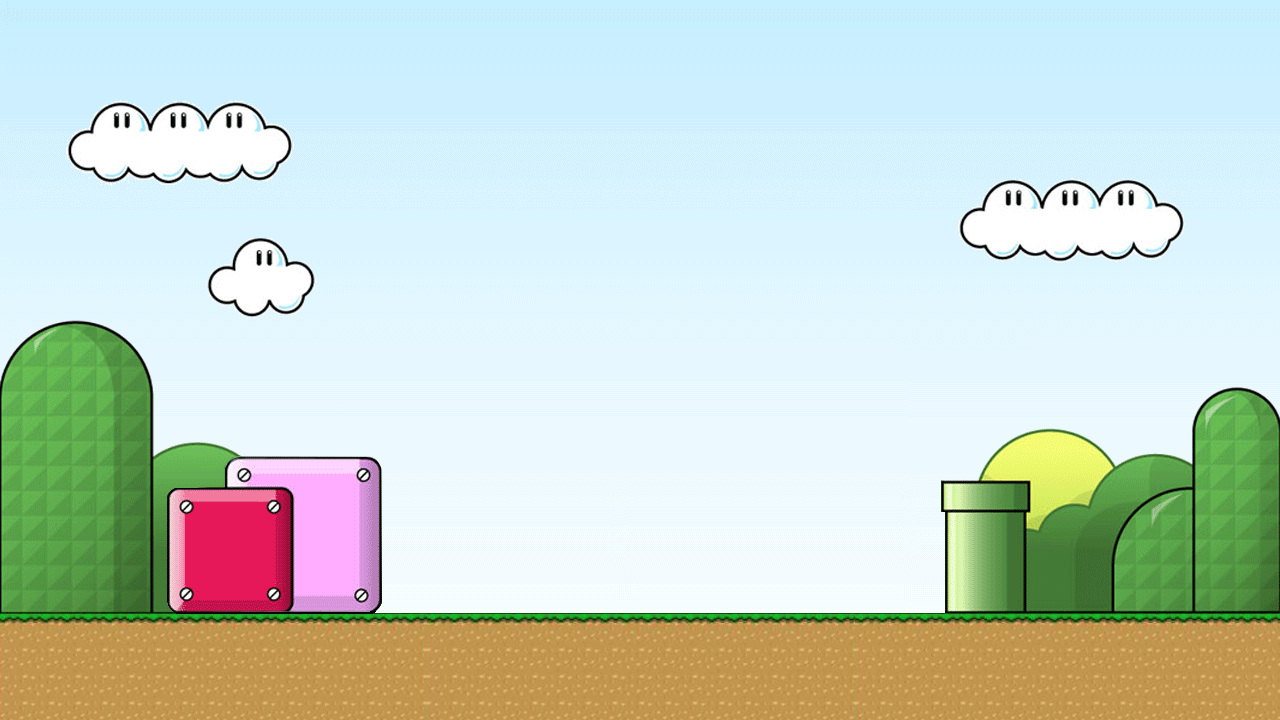
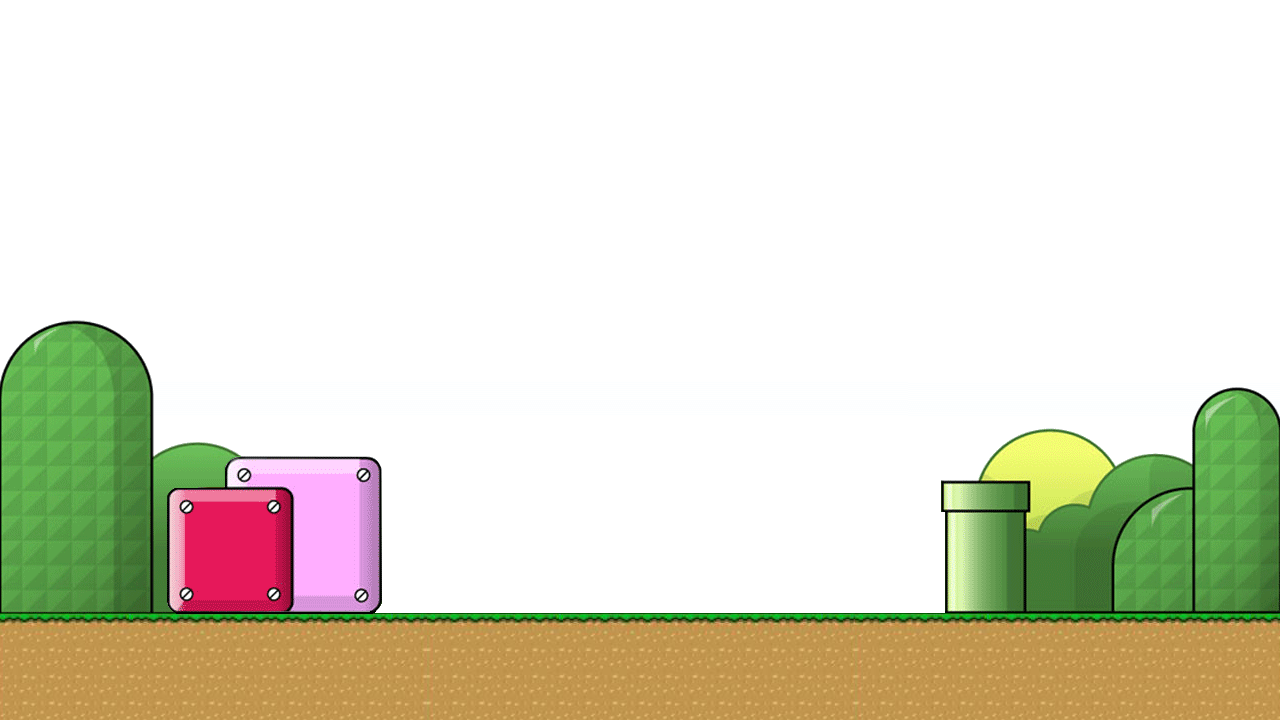
Added Menu Sound Effects

diff --git a/gameMainWindow/title.cpp b/gameMainWindow/title.cpp
@@ -6,7 +6,11 @@ Title::Title(View *view, QWidget *parent) : QGraphicsScene(parent){
     playlist->addMedia(QUrl("qrc:/music/Title.mp3"));
     playlist->setPlaybackMode(QMediaPlaylist::Loop);
 
-    background = new QGraphicsPixmapItem(QPixmap(":/images/title.png"));
+    selectSFX = new QSoundEffect();
+    selectSFX->setSource(QUrl("qrc:/music/Select.wav"));
+
+    background = new QGraphicsPixmapItem(QPixmap(":/images/background.png"));
+    foreground = new QGraphicsPixmapItem(QPixmap(":/images/title.png"));
     cursor = new QGraphicsPixmapItem(QPixmap(":/images/cursor.png"));
     logo = new QGraphicsPixmapItem(QPixmap(":/images/logo.png"));
 
@@ -26,6 +30,7 @@ Title::Title(View *view, QWidget *parent) : QGraphicsScene(parent){
     cursor->setPos((width - start->boundingRect().width()) / 2 - cursor->boundingRect().width(), (height - 275 + start->boundingRect().height() / 4));
     logo->setPos((width - logo->boundingRect().width()) / 2, height / 12);
     addItem(background);
+    addItem(foreground);
     addItem(logo);
     addItem(cursor);
     addItem(start);
@@ -44,6 +49,7 @@ void Title::keyPressEvent(QKeyEvent *event){
             selection--;
             cursor->moveBy(0,-start->boundingRect().height());
         }
+        selectSFX->play();
     }
     if(event->key() == Qt::Key_Down){
         if(selection == 1){
@@ -53,6 +59,7 @@ void Title::keyPressEvent(QKeyEvent *event){
             selection++;
             cursor->moveBy(0,start->boundingRect().height());
         }
+        selectSFX->play();
     }
     if(event->key() == Qt::Key_Z){
         if(selection == 0){
@@ -61,5 +68,8 @@ void Title::keyPressEvent(QKeyEvent *event){
         if(selection == 1){
             emit quitGame();
         }
+    }
+    if(event->key() == Qt::Key_Right){
+        background->moveBy(1,0);
     }
 }

diff --git a/gameMainWindow/title.h b/gameMainWindow/title.h
@@ -17,12 +17,14 @@ private:
     const int width = 1280;
     const int height = 720;
     QGraphicsPixmapItem *background;
+    QGraphicsPixmapItem *foreground;
     QGraphicsPixmapItem *cursor;
     QGraphicsPixmapItem *logo;
     QGraphicsPixmapItem *border;
     QGraphicsTextItem *start;
     QGraphicsTextItem *quit;
     QMediaPlaylist *playlist;
+    QSoundEffect *selectSFX;
 };
 
 #endif // TITLE_H

diff --git a/gameMainWindow/mainwindow.h b/gameMainWindow/mainwindow.h
@@ -21,6 +21,7 @@
 #include <QPushButton>
 #include <QRadioButton>
 #include <QSlider>
+#include <QSoundEffect>
 #include <QSpacerItem>
 #include <QSpinBox>
 #include <QSplashScreen>
